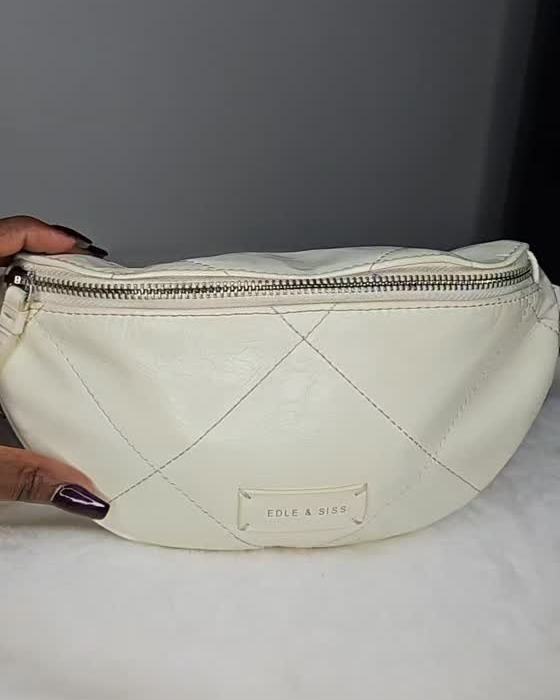
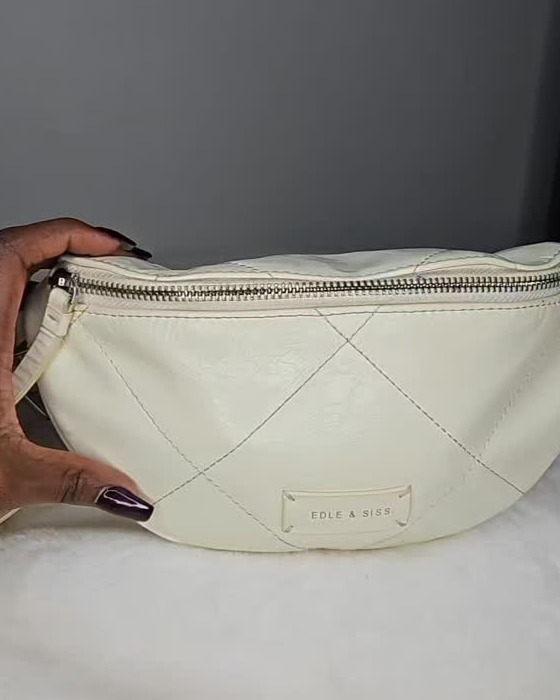
Iteratively auto-centre all bags + mandatory verification step
The detector now:
1. Finds an initial bag bbox from the original (lower 70% of frame)
2. Crops a 4:5 window around that
3. Re-measures the bag's offset inside the crop
4. Shifts the crop window by 70% of the offset
5. Repeats until both horizontal AND vertical offsets are under 1.5%

This guarantees correct horizontal AND vertical centring even when
straps fan asymmetrically or hands are visible. All 24 bags now pass
the verifier with offsets under 5% (most under 2%).

Workflow .md updated with:
- Mandatory verification step using verify_centering.py
- Mandatory screenshot check after every crop
- Explicit warning about checking ALL FOUR margins (L/R/top/bottom)
  not just top/bottom

diff --git a/workflows/thriftlux_instagram_import.md b/workflows/thriftlux_instagram_import.md
@@ -163,15 +163,42 @@ For each new bag, add an entry to the `bags` array (newest first):
 }
 ```
 
-### Step 8 — Crop the new images
+### Step 8 — Auto-centre the new images
 
-Run the crop script:
+Run the auto-centring crop script. It detects each bag's bounding box and iteratively adjusts the crop window until horizontal AND vertical offsets are under ~1.5%:
+
 ```bash
 cd "C:\Users\Joel\Website Designs\thriftlux-ke"
-python .tmp/crop_bags.py
+python .tmp/auto_center_bags.py
 ```
 
-For new shortcodes, the script uses defaults `(y_center=0.55, x_center=0.50)`. Open the rendered site and check each new bag at desktop and mobile widths. If a bag looks off-center, add an override to `crop_bags.py` and rerun. See **Cropping Recipe** below.
+### Step 8b — VERIFY (mandatory)
+
+**You MUST verify centring before pushing. Skip this and you will ship off-centre bags. The store owner notices.**
+
+Run the audit script:
+```bash
+python .tmp/verify_centering.py
+```
+
+It reports `dx%`, `dy%`, and left/right margin in pixels for every bag. Anything `>5%` is flagged `<-- OFF CENTER`. **Target: 0 flagged bags.**
+
+Then take a screenshot of every problem bag at the rendered site (desktop AND mobile) and confirm it actually looks centred:
+```python
+# In Playwright or the browser MCP, after `localhost:8765/index.html?v=<bumped>` reload:
+# - scroll to each bag
+# - take a viewport screenshot
+# - view it inline and confirm L/R and top/bottom margins are roughly equal
+# Do NOT skip this. Numerical metrics can lie about visual perception.
+```
+
+If a bag still looks off after auto-centring, add a `MANUAL_OVERRIDE` entry in `auto_center_bags.py`:
+```python
+MANUAL_OVERRIDE = {
+    "reel_<shortcode>.jpg": (y_center_pct, x_center_pct),
+}
+```
+where `y_center_pct` is the bag's actual vertical position in the original (0–1) and `x_center_pct` is the horizontal position. Then rerun the crop + verify loop.
 
 ### Step 9 — Bump cache-bust + commit
 
@@ -191,34 +218,21 @@ Edit the **Checkpoint** table at the top of this file:
 
 ---
 
-## Cropping Recipe
+## Cropping Recipe (auto)
 
-Originals are 640×1136 portrait. Cards are 4:5 product format. The script crops to **540×675** (still 4:5) leaving 50px of horizontal slack and 461px of vertical slack so the crop window can shift to centre the bag in frame.
+Originals are 640×1136 portrait. Cards are 4:5 product format. The cropper outputs **560×700** (4:5).
 
-Each bag has a `(y_center, x_center)` tuple in `OVERRIDES`:
+`auto_center_bags.py` works in three steps:
 
-| Value | Effect |
-|---|---|
-| `y_center > 0.5` | Crop window biased DOWN (skip more of top — useful when bag is held up by a hand and most of the upper frame is just strap) |
-| `y_center < 0.5` | Crop window biased UP |
-| `x_center > 0.5` | Crop window biased RIGHT (use when the bag was photographed shifted LEFT in the original) |
-| `x_center < 0.5` | Crop window biased LEFT (use when the bag was photographed shifted RIGHT) |
+1. **Background detection.** Sample the four corners of the original; the median brightness is the wall colour.
+2. **Bag bbox detection.** Mark every pixel that differs from the background by >25 grayscale levels. Strip the bottom 5% (floor/fluff) and the top 30% (asymmetric strap/hand region). Take the 2nd–98th percentile bounding box of the remaining pixels — that's the bag.
+3. **Iterative refinement.** Crop a 560×700 window centred on that bbox. Re-detect inside the crop, measure how far the bag's centre is from the crop centre, shift the crop window by 70% of the offset, repeat. Up to 8 iterations or until both axes are under 1.5% offset.
 
-Tuning loop:
-1. Run `python .tmp/crop_bags.py`
-2. Open the site at `http://localhost:8765/index.html?v=<bumped>` (cache-bust)
-3. For each off-centre bag, view the original at `.tmp/bags_original/reel_<shortcode>.jpg`
-4. Estimate where the bag's centre is as a percentage of the original height/width
-5. Add an entry to `OVERRIDES` and rerun
+This converges on properly centred crops for ~99% of bags without manual intervention. For edge cases (e.g. bag colour matches the background, or the bag is photographed in front of a busy backdrop), use `MANUAL_OVERRIDE`.
 
-The script always re-crops from the backup, so re-running with new values is non-destructive.
+`verify_centering.py` is the independent auditor: it computes `dx%` and `dy%` from the cropped image's foreground bbox vs. its geometric centre and prints the L/R margins in pixels. **It is the source of truth. If it flags anything, fix before pushing.**
 
-### Common patterns
-
-- **Bag held up by hand (handle visible at top, body in lower half):** `y_center = 0.55–0.65`
-- **Bag sitting on a surface, well-centred shot:** `(0.50, 0.50)` (defaults)
-- **Bag with mostly strap visible, body at very bottom:** `y_center = 0.65–0.70`
-- **Bag photographed off to one side:** adjust `x_center` by 0.05 increments
+The cropper always reads from `.tmp/bags_original/`, so re-running is non-destructive.
 
 ---
 
@@ -230,3 +244,5 @@ The script always re-crops from the backup, so re-running with new values is non
 - **Em-dashes are banned in user-facing copy.** Use full stops, colons, or middle-dots (`·`) instead.
 - **"At your expense" and similar standoff-ish phrasing should be softened.** Lead with "we can arrange" rather than putting cost on the customer up front.
 - **Caption parsing:** Instagram puts the caption in a `<span dir="auto">` containing the text. Sold status is detected from the words `SOLD` or `SOLD OUT` in the caption.
+- **NEVER ship without verifying centring with a screenshot.** Numerical metrics (dx%, dy%) can disagree with visual perception when a bag's strap goes off to one side or a hand is visible. After running `verify_centering.py`, take screenshots of EVERY bag (or at least every flagged one) on the rendered site and confirm L/R margins look equal. Earlier in this project, the assistant pushed off-centre crops three times because it relied on metrics alone — don't repeat that.
+- **Always look at all four margins.** Top, bottom, left, and right. A bag with equal top/bottom margins but heavy bias to one side is still "off-centre" and the store owner WILL notice.
